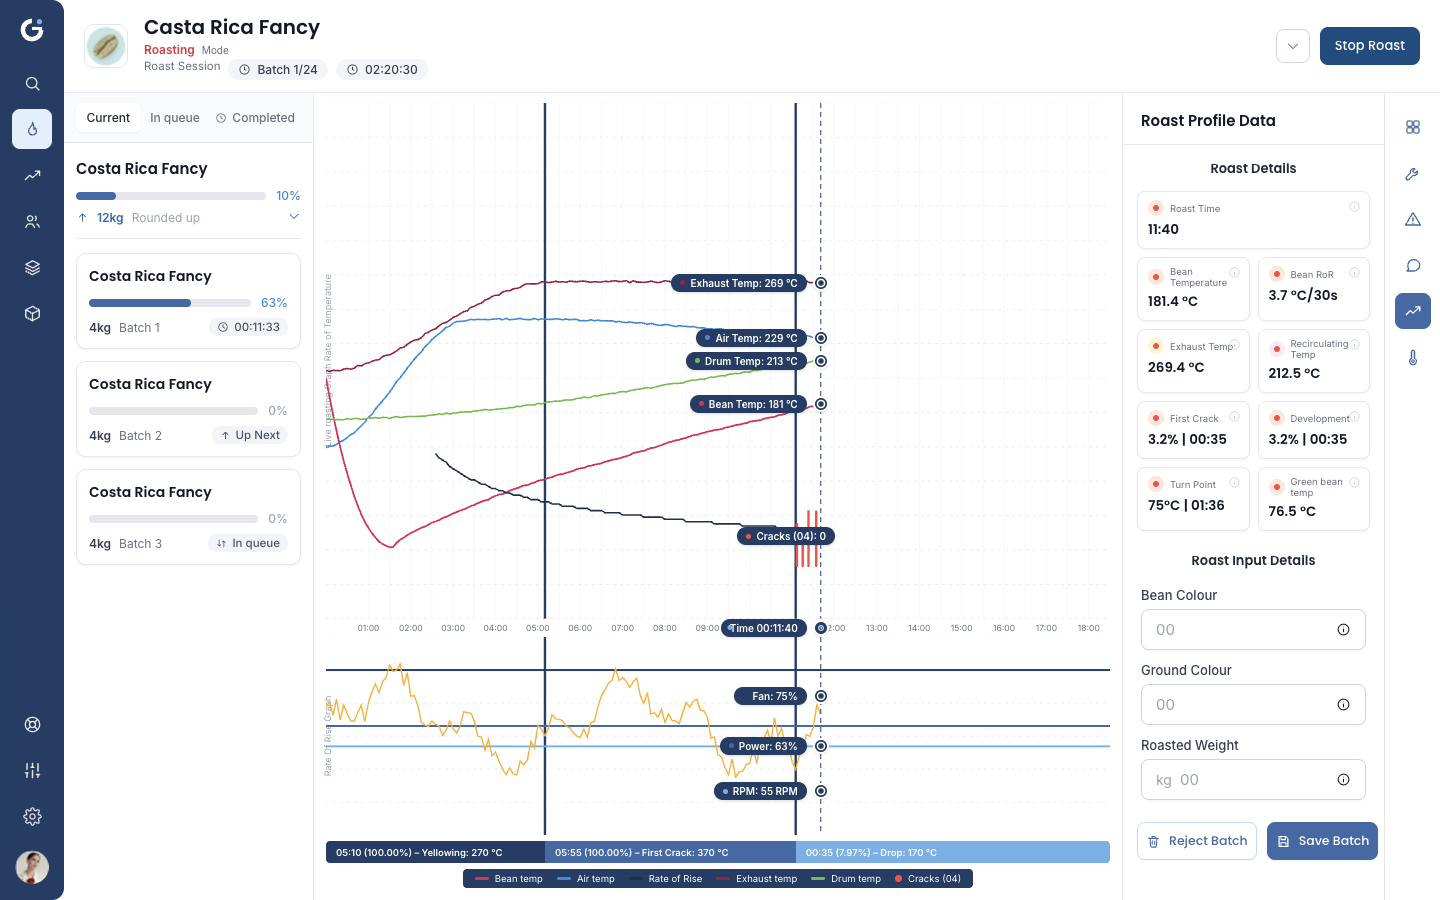
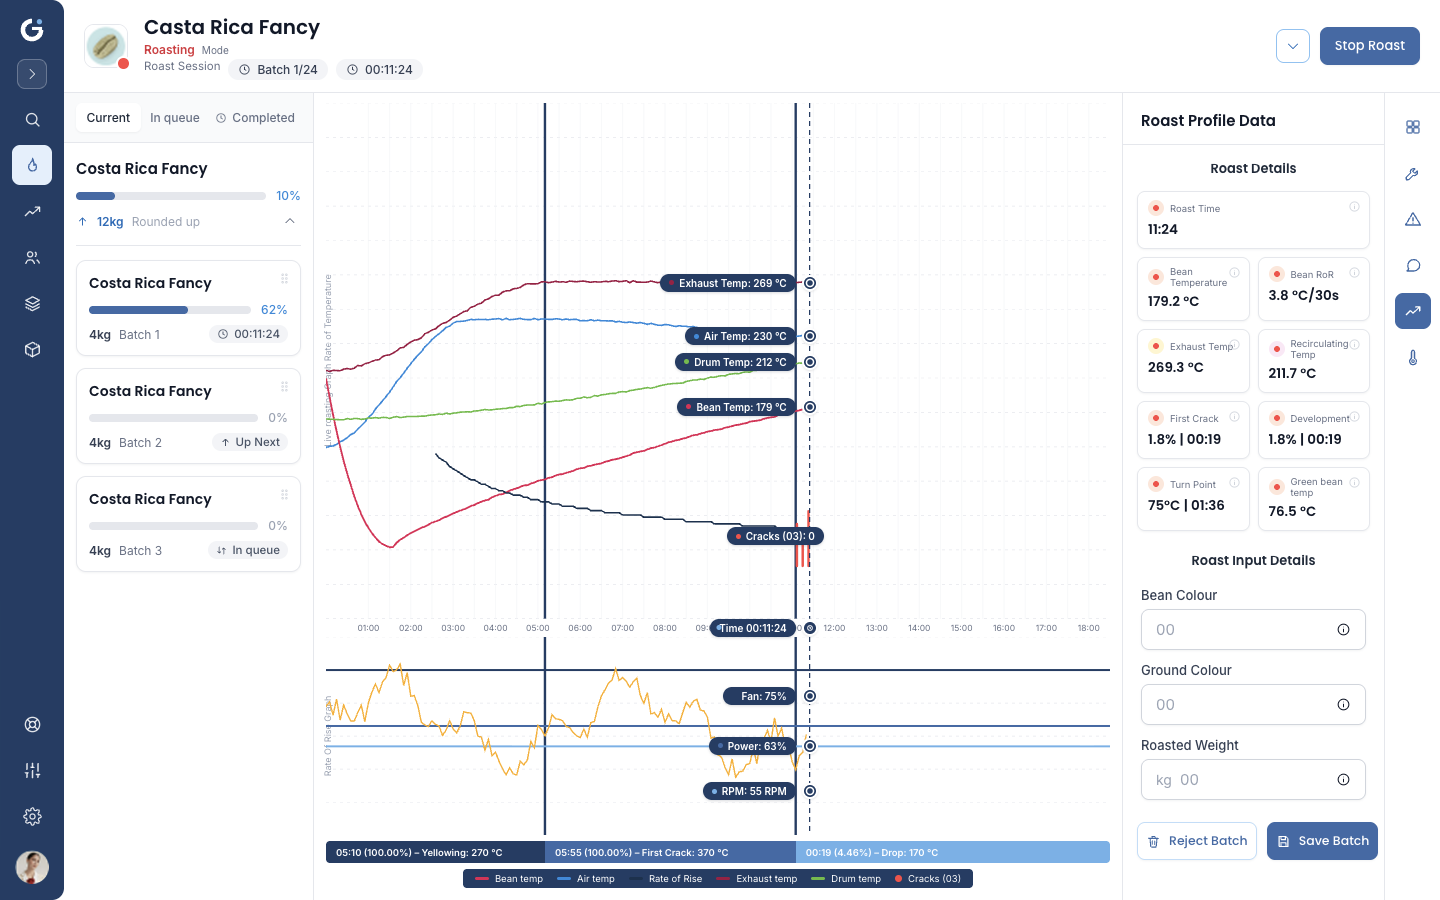
Mobile: mode system port (Preheat/Roasting/Cooldown chips); web: dropdown click-away scrim; refreshed hero screenshots

diff --git a/mobile/App.tsx b/mobile/App.tsx
@@ -16,6 +16,21 @@ import { beans, batches, profiles } from "./src/data";
 const SIM_SPEED = 14;
 
 type Tab = "live" | "queue" | "profiles" | "stock";
+type Mode = "standby" | "preheat" | "roasting" | "cooldown";
+
+const MODE_LABEL: Record<Mode, string> = { standby: "Standby", preheat: "Preheat", roasting: "Roasting", cooldown: "Cooldown" };
+const MODE_COLOR: Record<Mode, string> = {
+  standby: colors.navy,
+  preheat: colors.warn,
+  roasting: colors.dangerBright,
+  cooldown: colors.blue,
+};
+const MODE_TINT: Record<Mode, string> = {
+  standby: colors.bg,
+  preheat: colors.warnTint,
+  roasting: colors.dangerTint,
+  cooldown: colors.blueTint,
+};
 
 export default function App() {
   return (
@@ -29,12 +44,14 @@ function Root() {
   const insets = useSafeAreaInsets();
   const [tab, setTab] = useState<Tab>("live");
 
-  // ---- shared roast session state ----
+  // ---- shared roast session state (mode system mirrors the web cockpit, frames 39/41) ----
   const data = useMemo(() => generateRoast(7), []);
-  const [running, setRunning] = useState(false);
+  const [mode, setMode] = useState<Mode>("standby");
+  const running = mode === "roasting";
   const [elapsed, setElapsed] = useState(0);
   const raf = useRef(0);
   const startRef = useRef(0);
+  const phaseTimer = useRef<ReturnType<typeof setTimeout> | null>(null);
 
   useEffect(() => {
     if (!running) return;
@@ -42,7 +59,9 @@ function Root() {
       const e = ((Date.now() - startRef.current) / 1000) * SIM_SPEED;
       if (e >= ROAST_DURATION) {
         setElapsed(ROAST_DURATION);
-        setRunning(false);
+        setMode("cooldown");
+        if (phaseTimer.current) clearTimeout(phaseTimer.current);
+        phaseTimer.current = setTimeout(() => setMode("standby"), 5000);
         return;
       }
       setElapsed(e);
@@ -52,19 +71,33 @@ function Root() {
     return () => cancelAnimationFrame(raf.current);
   }, [running]);
 
+  useEffect(() => () => { if (phaseTimer.current) clearTimeout(phaseTimer.current); }, []);
+
   const start = () => {
-    startRef.current = Date.now();
     setElapsed(0.01);
-    setRunning(true);
+    setMode("preheat");
+    if (phaseTimer.current) clearTimeout(phaseTimer.current);
+    phaseTimer.current = setTimeout(() => {
+      startRef.current = Date.now();
+      setMode("roasting");
+    }, 3500);
   };
-  const stop = () => setRunning(false);
+  const stop = () => {
+    if (phaseTimer.current) clearTimeout(phaseTimer.current);
+    if (mode === "roasting") {
+      setMode("cooldown");
+      phaseTimer.current = setTimeout(() => setMode("standby"), 5000);
+    } else {
+      setMode("standby");
+    }
+  };
 
   return (
     <View style={[st.app, { paddingTop: insets.top }]}>
       <StatusBar barStyle="dark-content" />
-      <Header running={running} />
+      <Header mode={mode} />
       <ScrollView style={st.body} contentContainerStyle={{ padding: 16, paddingBottom: 24, gap: 12 }}>
-        {tab === "live" && <LiveScreen data={data} elapsed={elapsed} running={running} onStart={start} onStop={stop} />}
+        {tab === "live" && <LiveScreen data={data} elapsed={elapsed} mode={mode} onStart={start} onStop={stop} />}
         {tab === "queue" && <QueueScreen elapsed={elapsed} running={running} />}
         {tab === "profiles" && <ProfilesScreen />}
         {tab === "stock" && <StockScreen />}
@@ -74,7 +107,7 @@ function Root() {
   );
 }
 
-function Header({ running }: { running: boolean }) {
+function Header({ mode }: { mode: Mode }) {
   return (
     <View style={st.header}>
       <LogoMark size={32} />
@@ -82,9 +115,9 @@ function Header({ running }: { running: boolean }) {
         <Text style={st.headerTitle}>ProRoast Companion</Text>
         <Text style={st.headerSub}>Genio Roasters</Text>
       </View>
-      <View style={[st.modeChip, running && st.modeChipLive]}>
-        <View style={[st.dot, { backgroundColor: running ? colors.dangerBright : colors.success }]} />
-        <Text style={[st.modeChipText, running && { color: colors.danger }]}>{running ? "Roasting" : "Standby"}</Text>
+      <View style={[st.modeChip, mode !== "standby" && { backgroundColor: MODE_TINT[mode], borderColor: MODE_COLOR[mode] + "55" }]}>
+        <View style={[st.dot, { backgroundColor: MODE_COLOR[mode] }]} />
+        <Text style={[st.modeChipText, mode !== "standby" && { color: MODE_COLOR[mode] }]}>{MODE_LABEL[mode]}</Text>
       </View>
     </View>
   );
@@ -93,16 +126,17 @@ function Header({ running }: { running: boolean }) {
 function LiveScreen({
   data,
   elapsed,
-  running,
+  mode,
   onStart,
   onStop,
 }: {
   data: ReturnType<typeof generateRoast>;
   elapsed: number;
-  running: boolean;
+  mode: Mode;
   onStart: () => void;
   onStop: () => void;
 }) {
+  const running = mode !== "standby";
   const now = sampleAt(data, elapsed);
   const cracks = data.cracks.filter((c) => c.t <= elapsed).length;
   const dev = elapsed > data.phases.firstCrack ? ((elapsed - data.phases.firstCrack) / elapsed) * 100 : 0;

diff --git a/web/src/pages/LiveRoasting.tsx b/web/src/pages/LiveRoasting.tsx
@@ -164,7 +164,9 @@ export default function LiveRoasting() {
 
       {/* session overview dropdown (frame 44) */}
       {headOpen && (
-        <div className="session-overview">
+        <>
+          <div className="session-scrim" onClick={() => setHeadOpen(false)} />
+          <div className="session-overview">
           <div className="col">
             <div className="col-t">In queue</div>
             {[
@@ -224,7 +226,8 @@ export default function LiveRoasting() {
               </div>
             ))}
           </div>
-        </div>
+          </div>
+        </>
       )}
 
       <div className="live-body">

diff --git a/web/src/styles/global.css b/web/src/styles/global.css
@@ -433,6 +433,7 @@ table.uui td.desc { max-width: 250px; white-space: nowrap; overflow: hidden; tex
 }
 
 /* session overview dropdown (frame 44) */
+.session-scrim { position: fixed; inset: 0; z-index: 29; }
 .session-overview {
   position: absolute; top: 93px; left: 0; right: 0; z-index: 30;
   display: flex; background: #fff; border-bottom: 1px solid var(--gray-200);
